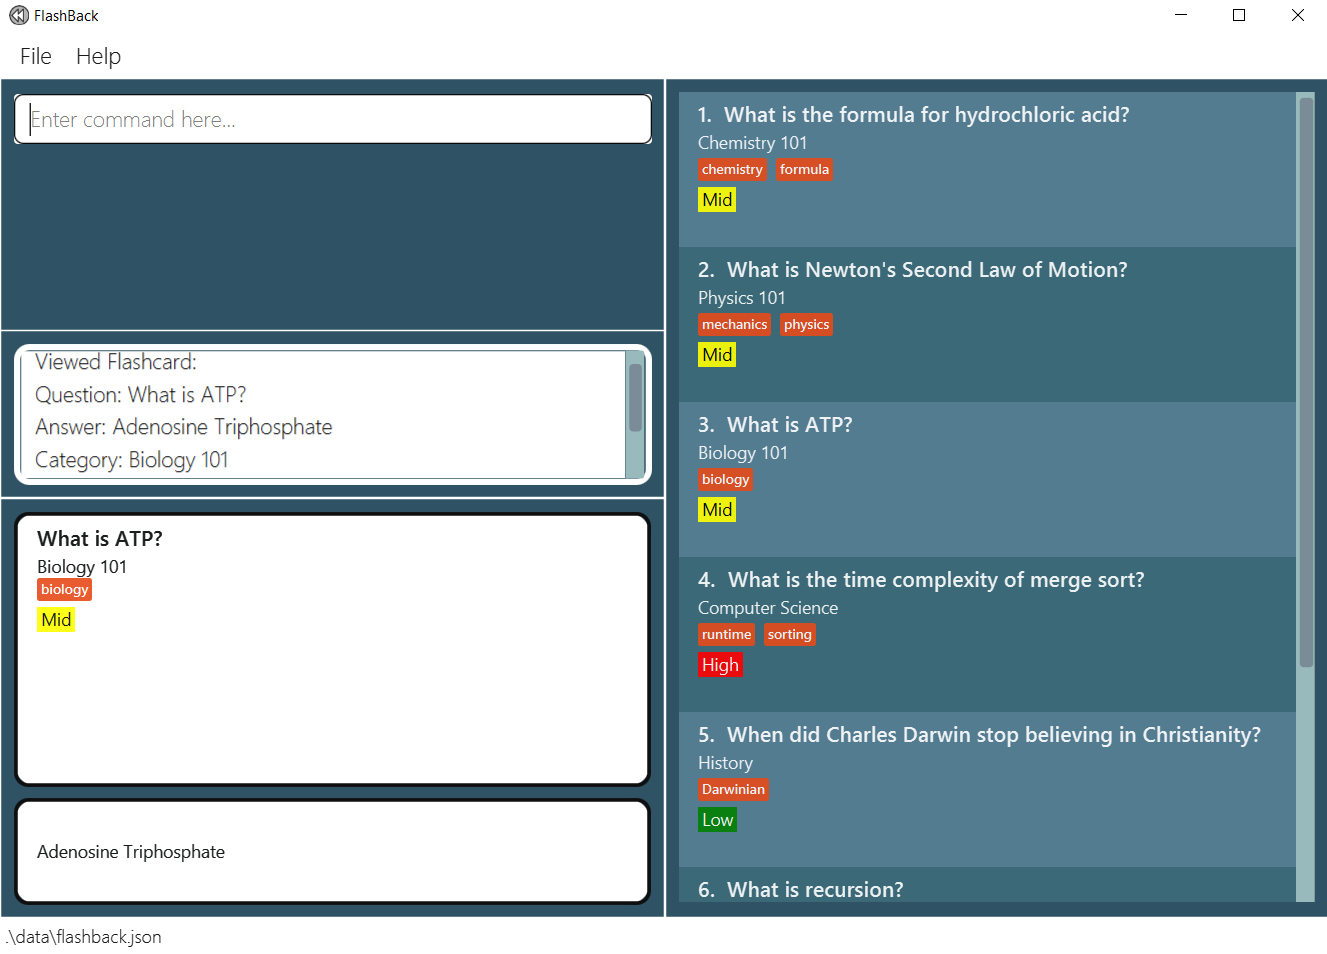
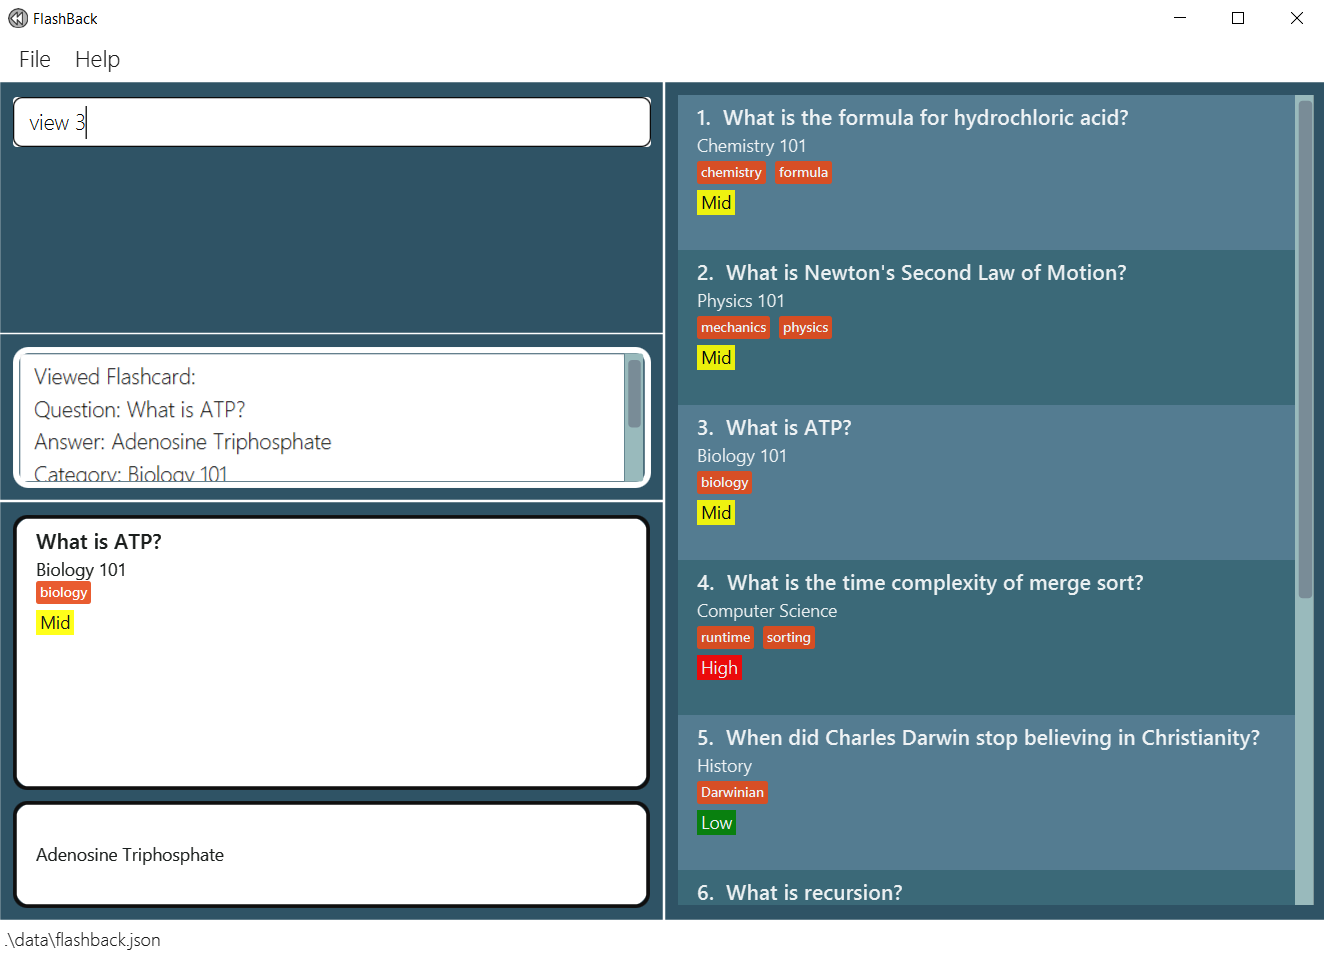
Add images to the UG

diff --git a/src/main/java/seedu/address/logic/commands/EditCommand.java b/src/main/java/seedu/address/logic/commands/EditCommand.java
@@ -47,7 +47,7 @@ public class EditCommand extends Command {
             + PREFIX_QUESTION + "Who is the chess champion? "
             + PREFIX_ANSWER + "Magnus Carlsen";
 
-    public static final String MESSAGE_EDIT_CARD_SUCCESS = "Edited Card: %1$s";
+    public static final String MESSAGE_EDIT_CARD_SUCCESS = "Edited Card: \n%1$s";
     public static final String MESSAGE_NOT_EDITED = "At least one field to edit must be provided.";
     public static final String MESSAGE_DUPLICATE_CARD = "This card already exists in Flashback!.";
 

diff --git a/src/main/java/seedu/address/logic/commands/AddCommand.java b/src/main/java/seedu/address/logic/commands/AddCommand.java
@@ -31,7 +31,7 @@ public class AddCommand extends Command {
             + PREFIX_CATEGORY + "English Literature "
             + PREFIX_PRIORITY + "Mid "
             + PREFIX_TAG + "tragedy";
-    public static final String MESSAGE_SUCCESS = "New flashcard added:\n %1$s";
+    public static final String MESSAGE_SUCCESS = "New flashcard added:\n%1$s";
     public static final String MESSAGE_DUPLICATE_FLASHCARD = "This card already exists in FlashBack.";
 
     private final Flashcard toAdd;

diff --git a/src/main/java/seedu/address/logic/commands/DeleteCommand.java b/src/main/java/seedu/address/logic/commands/DeleteCommand.java
@@ -22,7 +22,7 @@ public class DeleteCommand extends Command {
             + "Parameters: INDEX (must be a positive integer)\n"
             + "Example: " + COMMAND_WORD + " 1";
 
-    public static final String MESSAGE_DELETE_FLASHCARD_SUCCESS = "Deleted Flashcard: %1$s";
+    public static final String MESSAGE_DELETE_FLASHCARD_SUCCESS = "Deleted Flashcard: \n%1$s";
 
     private final Index targetIndex;
 

diff --git a/docs/UserGuide.md b/docs/UserGuide.md
@@ -50,37 +50,36 @@ FlashBack is a **desktop application for managing notes, optimized for use via a
 
 **:information_source: Notes about the command format:**<br>
 * Words in UPPER_CASE are the parameters to be supplied by the user. <br>
-  eg. in `add q/QUESTION`, `QUESTION` is a parameter which can be used as `add q/What is Fermat's Last Theorem?`.<br>
+  eg. In `add q/QUESTION`, `QUESTION` is a parameter which can be used as `add q/What is Fermat's Last Theorem?`.<br>
 
 * Items in square brackets are optional. <br>
   eg. `q/QUESTION [t/TAG]` can be used as `q/What is Singapore Independence Day?` or as `q/What is Singapore Independence Day? t/Singapore`<br>
 
 * Items with `…` after them can be used multiple times including zero times. <br>
-  e.g. `[t/TAG]…` can be used as ` ` (i.e. 0 times), `t/vocabulary`, `t/vocabulary t/SAT` etc.
+  e.g. `[t/TAG]…` can be used as `t/vocabulary`, `t/vocabulary t/SAT` etc.
   
 * Parameters can be in any order. <br>
-  eg. If the command specifies `q/QUESTION a/ANSWER`, `a/ANSWER q/QUESTION` is also acceptable.<br><br>
+  eg. If the command specifies `q/QUESTION a/ANSWER`, `a/ANSWER q/QUESTION` is also acceptable.<br>
   
 * Extraneous parameters for commands that do not take in parameters (such as `help`, `list`, `undo`, `exit` and `clear`) will be ignored. <br>
-  e.g. if the command specifies `help 123`, it will be interpreted as `help`.
+  e.g. If the command specifies `help 123`, it will be interpreted as `help`.
 
 * Prefixes are case-sensitive. <br>
-  `q/` is not the same as `Q/`
+  e.g. `q/` is not the same as `Q/`.
   
 * If a parameter is expected only once in the command, but you specified it multiple times, only the last occurrence of the parameter will be taken. <br>
-  e.g. if you specify `c/Geography c/History`, only `c/History` will be taken.
+  e.g. If you specify `c/Geography c/History`, only `c/History` will be taken.
 
 </div>
 
 ### Viewing help: `help`
-Shows a message explaining how to access the help page.
-
+Shows a message explaining how to access the help page.<br>
+![HelpMessage](./images/helpMessage.png) <br>
 Format: `help`
 
 ### Adding a new card: `add`
 
-Adds a new card to the card list.
-
+Adds a new card to the card list.<br>
 Format: `add q/QUESTION a/ANSWER c/CATEGORY p/PRIORITY [t/TAG]...` <br />
 Note: The TAG is optional when adding a new card.
 <div markdown="span" class="alert alert-primary">:memo: **Note:**
@@ -88,7 +87,8 @@ Priority can only take 1 out of 3 values: `High`, `Mid` or `Low`.
 </div> 
 
 Examples:
-* `add q/Einstein’s Equation a/e=mc^2 c/Physics p/High`  
+* `add q/Einstein’s Equation a/e=mc^2 c/Physics p/High` 
+![UIAdd](./images/UiAddResult.png) 
 * `add q/Independence day of Singapore a/August 9th 1965 c/History p/Mid t/Singapore`
 
 ### Editing a card: `edit`
@@ -103,7 +103,10 @@ Format: `edit INDEX [q/NEW QUESTION] [a/NEW ANSWER] [c/NEW CATEGORY]` <br />
 * The index **must be a positive integer** 1, 2, 3, …
 * At least 1 updated card field must be provided for modification.
 
-
+Examples:
+* `edit 1 p/Low`
+![UIEdit](./images/UiEditResult.png)
+* `edit 3 q/What is the time complexity for Quick Sort? t/Algorithms`
 ### Listing all cards : `list`
 
 Shows all cards in the card list.
@@ -121,14 +124,14 @@ Format: `delete INDEX`
 * The index **must be a positive integer** 1, 2, 3, …
 
 Examples:
-* `list` followed by `delete 2` deletes the 2nd card in the card list.
-
+* `list` followed by `delete 2` deletes the 2nd card in the card list. <br>
+Before executing command `delete 2`:
+![UIBeforeDelete](./images/UiBeforeDelete.png) <br><br>
+After executing command `delete 2`:
+![UIAfterDelete](./images/UiAfterDelete.png)
 ### Viewing a card : `view`
 
 Views a specific card from the card list. <br>
-The image below shows what FlashBack looks like after you enter a view command.
-![UIView](./images/UiViewResult.png)
-
 
 Format: `view INDEX`
 
@@ -137,7 +140,8 @@ Format: `view INDEX`
 * The index **must be a positive integer** 1, 2, 3, …
 
 Examples:
-* `view 1` shows the 1st flashcard (in the displayed flashcard list).
+* `view 3` shows the 3rd flashcard (in the displayed flashcard list).
+![UIView](./images/UiViewResult.png)
 
 ### Finding cards : `find`
 
